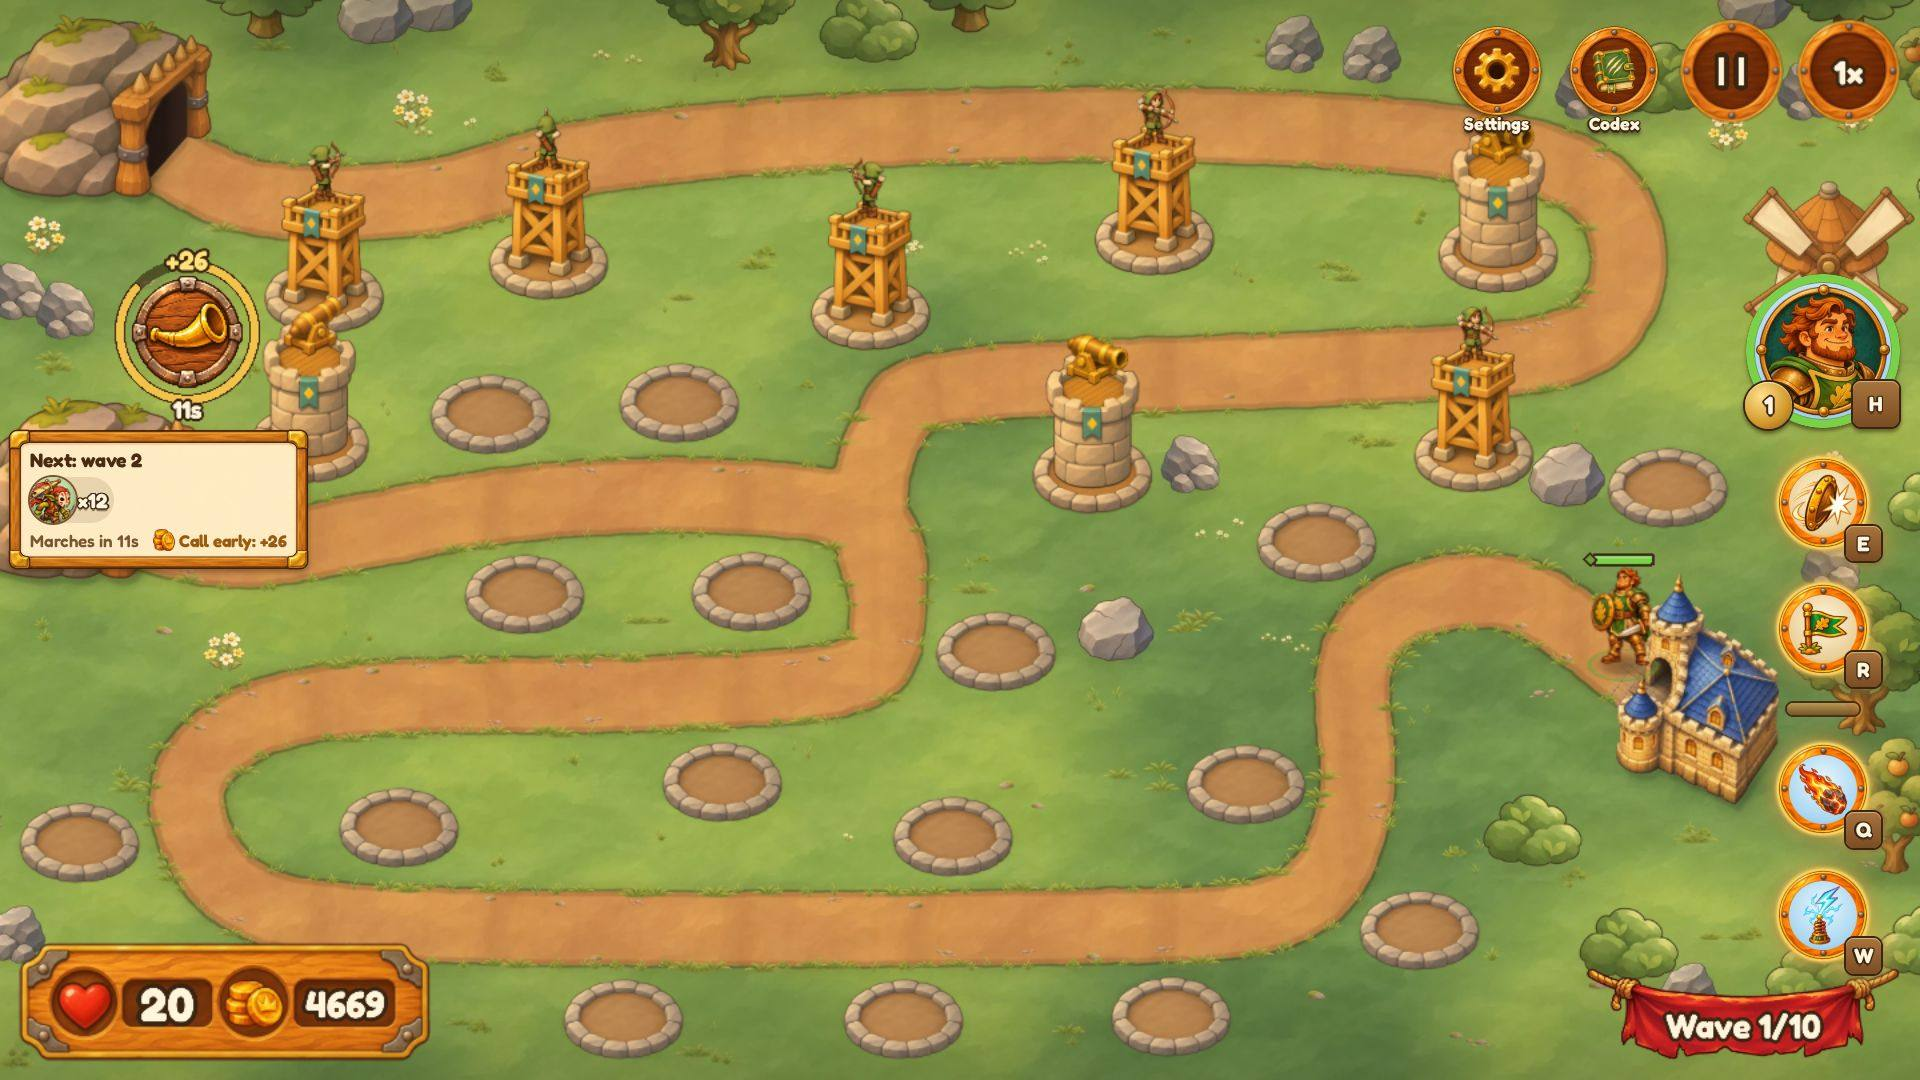
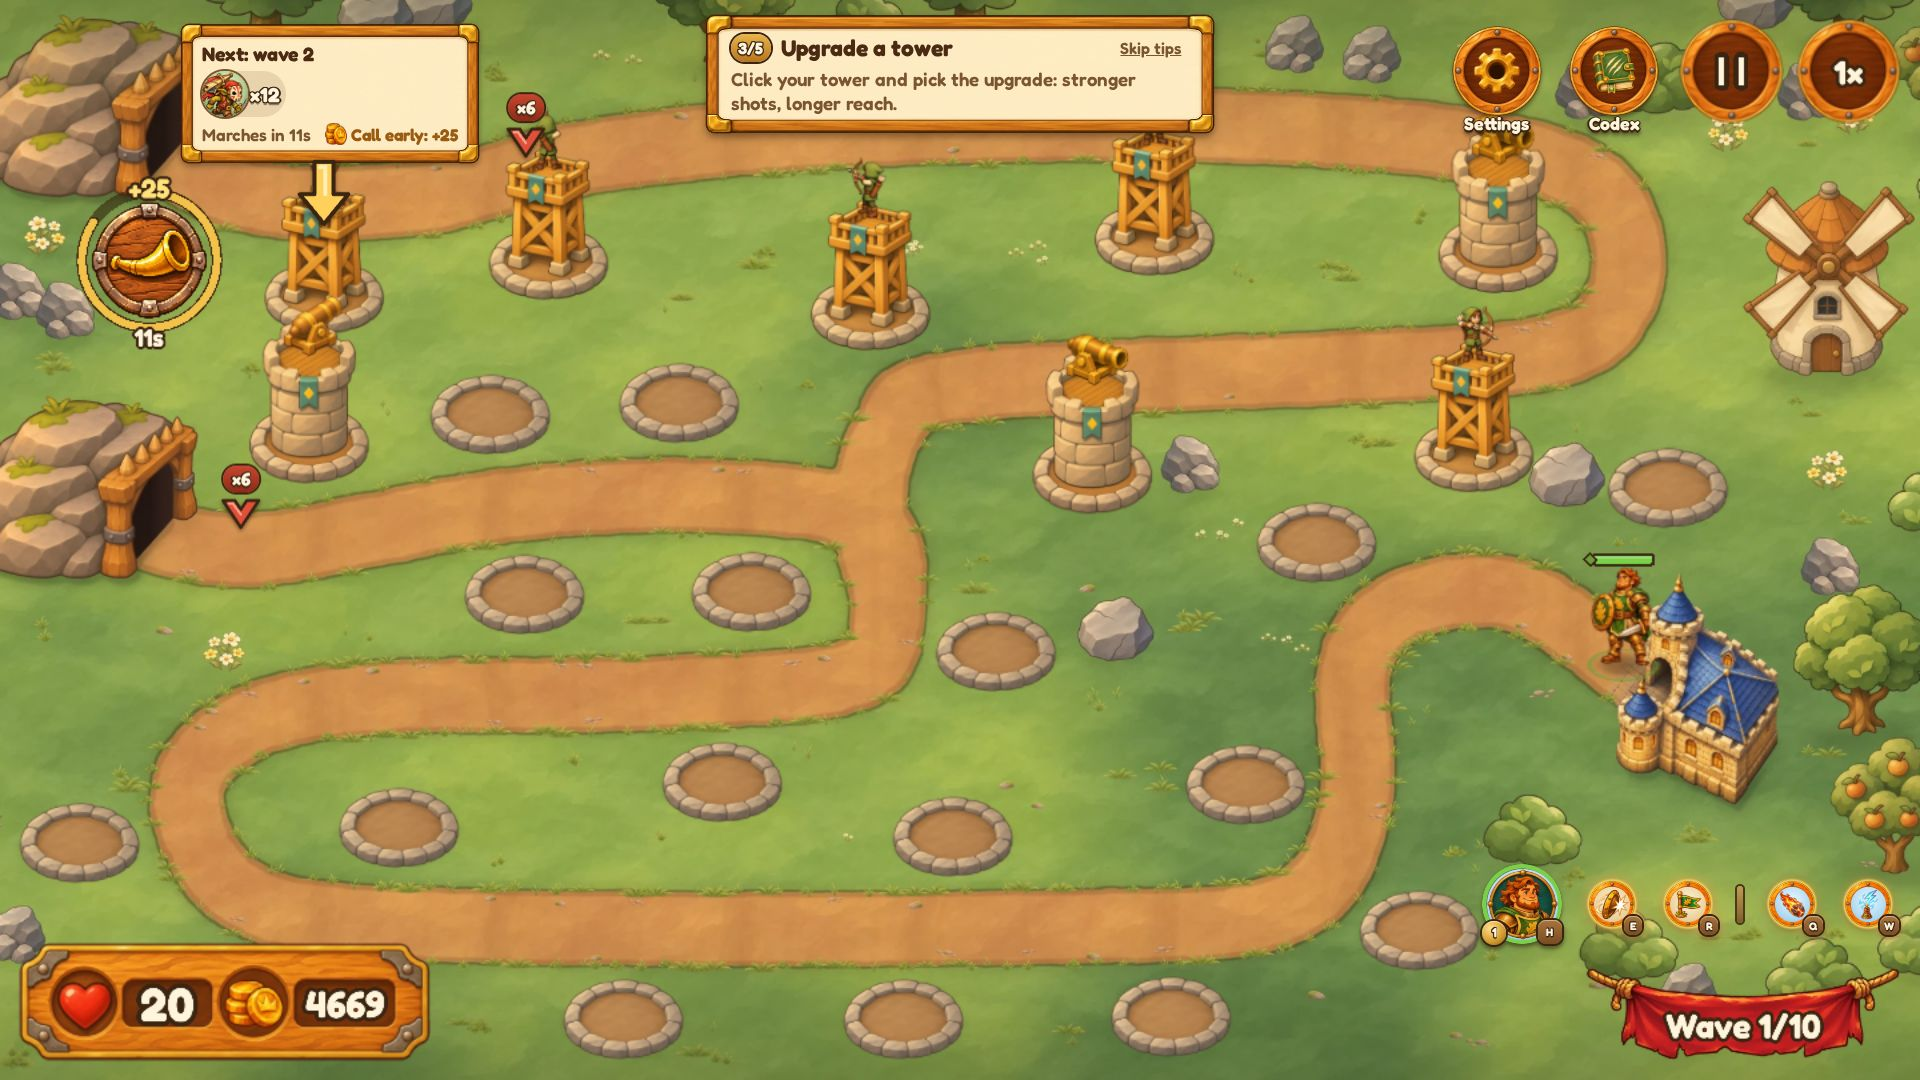
fix(2d): next-wave card keeps off the caves / castle (it hid l1c's top cave and i13's 22-foe cave) and tries spots further from the horn on dense maps; TR hero hints read naturally; QA: cave check, round horn

diff --git a/src/render2d/main2d.ts b/src/render2d/main2d.ts
@@ -98,6 +98,8 @@ declare global {
       abilities?: () => Record<string, unknown> | null;
       /** QA: the next-wave card beside the horn. */
       waveCard?: () => Record<string, unknown> | null;
+      /** QA: the caves / castle fronts on screen (`castle` = the goal). */
+      gates?: () => { x: number; y: number; w: number; h: number; castle: boolean }[];
       lives?: () => Record<string, unknown> | null;
       /** QA: the foe info card, and the screen point of a live foe to tap. */
       foe?: () => Record<string, unknown> | null;
@@ -400,6 +402,7 @@ async function main(): Promise<void> {
   let livesWarn: import('./ui/lowLives2d.ts').LivesWarning | null = null;
   let foeCard: import('./ui/enemyCard2d.ts').EnemyCard2D | null = null;
   let coach: import('./ui/coach2d.ts').Coach2D | null = null;
+  let gateRectsRef: (() => (import('./uiLayout.ts').Rect & { castle: boolean })[]) | null = null;
   let hudTipsFrame: (() => void) | null = null;
   let foesSeen: import('./ui/newFoes2d.ts').FoesSeen | null = null;
   let newFoeToast: import('./ui/newFoes2d.ts').NewFoeToast | null = null;
@@ -678,6 +681,12 @@ async function main(): Promise<void> {
       desktop,
     );
     const { mountWaveCard } = await import('./ui/wavePreview2d.ts');
+    // The painted caves / castle on screen (their fronts, grown a little; `castle` = the goal).
+    const gateRects = (): (import('./uiLayout.ts').Rect & { castle: boolean })[] => {
+      const f = game.map.fit;
+      return gateKeepOutsPx(level.layout2d?.gates ?? []).map((g) => ({ x: f.offsetX + g.x * f.scale, y: f.offsetY + g.y * f.scale, w: g.w * f.scale, h: g.h * f.scale, castle: g.castle }));
+    };
+    gateRectsRef = gateRects;
     const { codexEnemyUrl } = await import('./codex2d.ts');
     livesWarn = (await import('./ui/lowLives2d.ts')).mountLivesWarning();
     if (desktop) {
@@ -728,10 +737,6 @@ async function main(): Promise<void> {
     if ((level.id === 'l1c' && plainPlay && !coachMod.coachDone()) || q.get('coach') === '1') {
       const hero = game.world.hero;
       // The caves / castle: the card keeps off them when it has to leave its home spot.
-      const gateRects = (): import('./uiLayout.ts').Rect[] => {
-        const f = game.map.fit;
-        return gateKeepOutsPx(level.layout2d?.gates ?? []).map((g) => ({ x: f.offsetX + g.x * f.scale, y: f.offsetY + g.y * f.scale, w: g.w * f.scale, h: g.h * f.scale }));
-      };
       coach = coachMod.mountCoach(!desktop || isTouchDevice(), hero ? heroName(hero.heroId).split(' ')[0] : '', gateRects);
       // Suggested first plot: the one with the most road within reach of an archer.
       const lay = level.layout2d!;
@@ -774,13 +779,19 @@ async function main(): Promise<void> {
       (type) => !seenRef.has(type),
       undefined,
       () => {
-        // Plot rings 3× (worse than a tower's headroom); HUD pieces 12× (never over the bar).
+        // Plot rings 3× (worse than a tower's headroom), a plot's middle 30× more (never over a
+        // ring's centre); HUD pieces 12× (never over the bar); the middle of a cave / the castle
+        // 2× (the player watches where the next wave comes out) — a nicety, after the plots.
         const f = game.map.fit;
         const r = game.hud.rects();
         const hud = [r.plaque, r.banner, hudButtonsKeepOut(app.screen.width, app.screen.height, readSafeInsets()), ...hudKeepOuts()];
+        const core = (q: { x: number; y: number; w: number; h: number }, k: number) => ({ x: q.x + (q.w * (1 - k)) / 2, y: q.y + (q.h * (1 - k)) / 2, w: q.w * k, h: q.h * k });
+        const plots = game.plots.geometry.rects.map((p) => ({ x: f.offsetX + p.x * f.scale, y: f.offsetY + p.y * f.scale, w: p.w * f.scale, h: p.h * f.scale }));
         return [
-          ...game.plots.geometry.rects.map((p) => ({ rect: { x: f.offsetX + p.x * f.scale, y: f.offsetY + p.y * f.scale, w: p.w * f.scale, h: p.h * f.scale }, weight: 3 })),
+          ...plots.map((rect) => ({ rect, weight: 3 })),
+          ...plots.map((p) => ({ rect: core(p, 0.3), weight: 30 })),
           ...hud.map((rect) => ({ rect, weight: 12 })),
+          ...gateRects().map((g) => ({ rect: core(g, 0.6), weight: 2 })),
         ];
       },
     );
@@ -982,6 +993,7 @@ async function main(): Promise<void> {
     artcheck: () => artCheckSummary(art),
     abilities: () => abilities?.debug() ?? null,
     waveCard: () => waveCard?.debug() ?? null,
+    gates: () => gateRectsRef?.() ?? [],
     lives: () => livesWarn?.debug() ?? null,
     foe: () => foeCard?.debug() ?? null,
     coach: () => coach?.debug() ?? null,

diff --git a/src/i18n/tr.ts b/src/i18n/tr.ts
@@ -497,7 +497,7 @@ export const TR: { readonly [K in MsgKey]: Msg } = {
   'hero.locked': 'Kilitli',
   'hero.unlockStarter': 'Baştan hazır',
   'hero.unlockIslands': { one: 'Açmak için {n} ada temizle', other: 'Açmak için {n} ada temizle' },
-  'hero.unlockProgress': '{n} adadan {have} tanesi temiz',
+  'hero.unlockProgress': '{have}/{n} ada temizlendi',
   'hero.levelAria': 'seviye {n}',
   'hero.levelTitle': 'Seviye {n} · {title}',
   'hero.maxLevel': 'En yüksek seviye',
@@ -519,12 +519,12 @@ export const TR: { readonly [K in MsgKey]: Msg } = {
   'hero.portAria': '{name}, can {hp}/{max}. Kahramanı seç',
   'hero.portDownAria': '{name} yerde, {n} saniye sonra döner',
   'hero.aimPoint': '{skill} için haritaya {verb}',
-  'hero.aimDir': '{skill} hangi yöne gitsin, oraya {verb}',
+  'hero.aimDir': '{skill} nereye gitsin? Oraya {verb}',
   'hero.aimTower': '{skill} için bir kulenin yanına {verb}',
   'hero.verbTap': 'dokun',
-  'hero.moveHint': '{name} oraya gitsin diye yola {verb}',
+  'hero.moveHint': 'Yola {verb}, {name} oraya gitsin',
   'hero.moveHintMouse': 'Sağ tık yürütür ve seçili tutar · Esc bırakır',
-  'hero.moveHintTouch': 'Yerinde kalsın diye kahramana yeniden dokun',
+  'hero.moveHintTouch': 'Yerinde kalsın: kahramana yeniden dokun',
   'hero.verbClick': 'tıkla',
   'hero.noTarget': 'Orada düşman yok, başka bir yer dene',
   'hero.treeTitle': 'Kahraman yetenekleri',

diff --git a/src/render2d/uiLayout.ts b/src/render2d/uiLayout.ts
@@ -708,6 +708,13 @@ export function besideAnchorSpot(
     { x: ax - r * 0.5 - w, y: ay + r * 1.6, side: 'below' },
     { x: ax + r * 0.5, y: ay - r * 1.6 - h, side: 'above' },
     { x: ax - r * 0.5 - w, y: ay - r * 1.6 - h, side: 'above' },
+    // A step further out (dense islands: every spot hugging the horn touches a plot).
+    { x: ax - w / 2, y: ay + r * 2.9, side: 'below' },
+    { x: ax - w / 2, y: ay - r * 2.9 - h, side: 'above' },
+    { x: ax + r * 1.4, y: ay + r * 2.4, side: 'below' },
+    { x: ax - r * 1.4 - w, y: ay + r * 2.4, side: 'below' },
+    { x: ax + r * 1.4, y: ay - r * 2.4 - h, side: 'above' },
+    { x: ax - r * 1.4 - w, y: ay - r * 2.4 - h, side: 'above' },
   ];
   let best: BesideSpot | null = null;
   let bestScore = Infinity;

diff --git a/docs/overnight/PROGRESS-skyhold-night-opus.md b/docs/overnight/PROGRESS-skyhold-night-opus.md
@@ -145,10 +145,18 @@ Round 2: the background preview dies at its 2 h limit — use `python3 qa/withPr
   `&quality=high` under SwiftShader); Endless cave marks verified (`qa/endlessLanes.mjs`). Full
   replay QA re-run: matched on all 6 combos.
 
+- **R3 — next-wave card:** six candidates a step further out from the horn (dense islands;
+  phone grazes on i04 / i05 / i14 gone). The card also keeps off the middle of the caves / castle
+  (2×; a plot's middle weighs 30× so plots still win): it sat on the top cave on l1c 1920 and on
+  i13's lower cave (22 foes) / i02's cave. `__p0.gates()` = screen rects of caves / castle;
+  waveshots flags a card over > 1/3 of a cave / castle and tests the horn as a circle. Full sweep
+  (all islands × 4 sizes): left are i13 between (card's edge over half a ring, 1920 / 1366) and
+  i02 phone (card ~5 px into the horn's ring) — both better than hiding a cave; accepted. TR: hero move / aim hints and the hero
+  unlock progress read more naturally ("Yola tıkla, Bran oraya gitsin", "{skill} nereye gitsin?
+  Oraya dokun", "3/5 ada temizlendi").
+
 ## Next — backlog 1–4 done; known small issues for a later round
 - Tower info card reviewed (ring tooltip: stats, targeting, upgrade / sell + refund, record) — OK.
-- Next-wave card still grazes one plot / tower top on dense i13 (1920 / 1366) between waves
-  (`qa/waveshots.mjs`); every spot round the horn touches something there.
 - Phone bar: remaining scores are tower-headroom grazes (side stack over l1c's windmill, i08 top
   row); no HUD overlap left (`bar-sheet-844x390.jpg`).
 - First-play coach card on 1366 l1c sits under the top-row bar and covers two tower tops while
